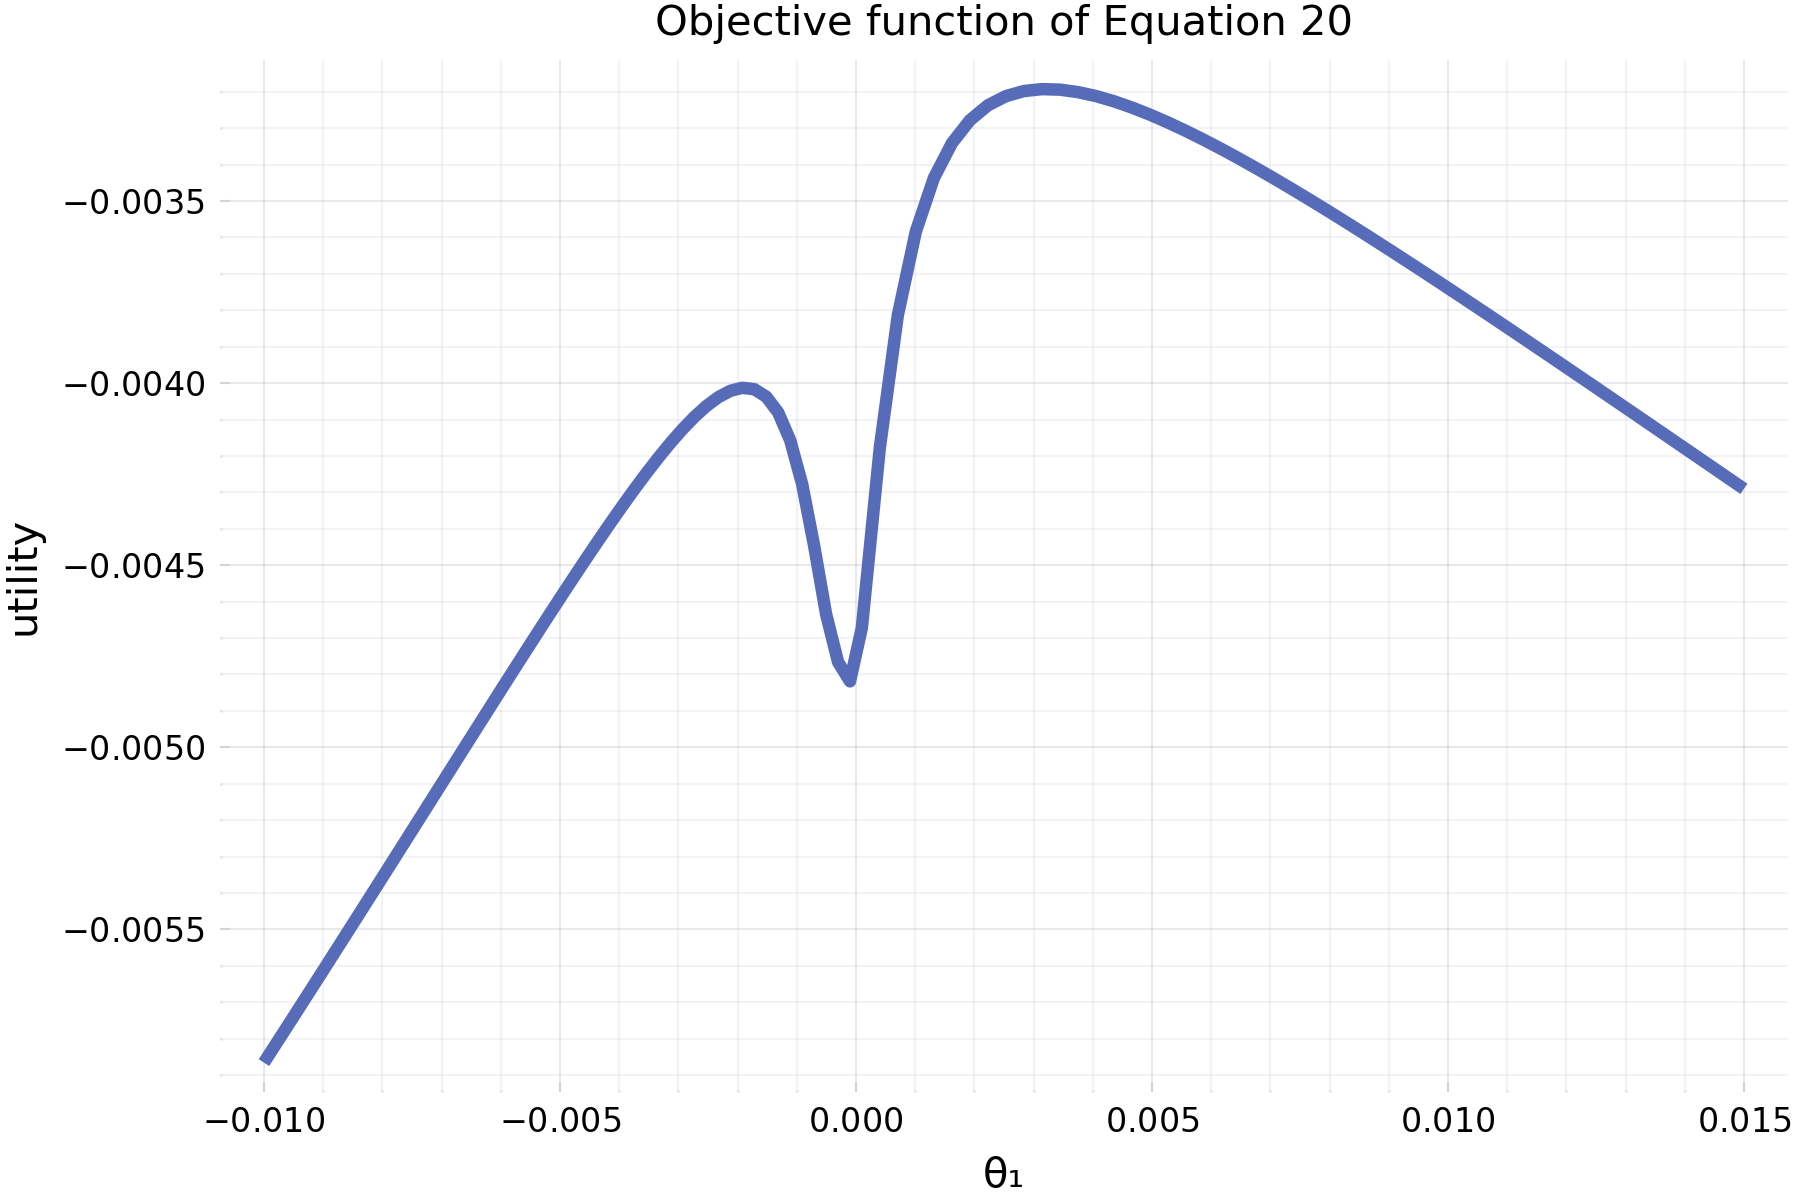
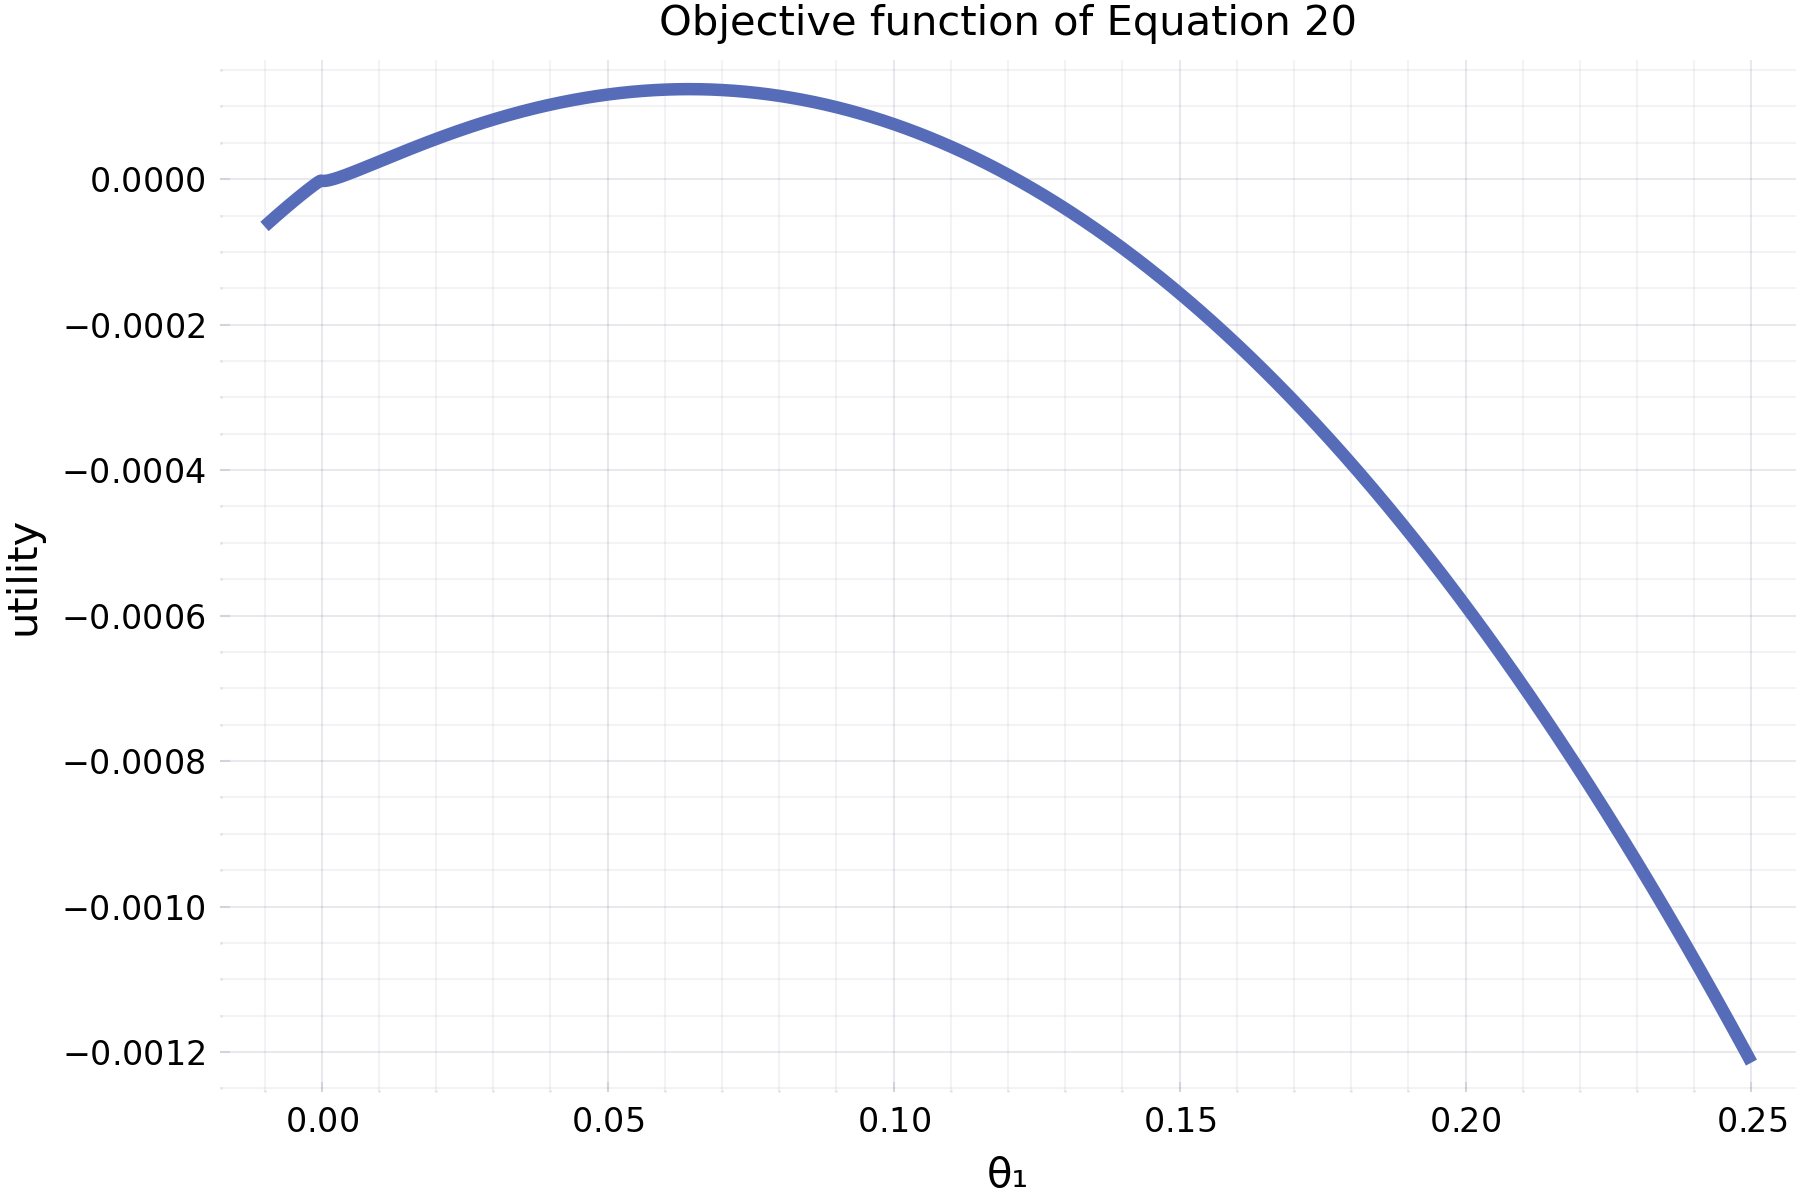
adjusting ranges, changed theta, changed nu to 8

diff --git a/py_code/finding_S_z.py b/py_code/finding_S_z.py
@@ -27,7 +27,7 @@ average_metrics = pd.read_csv(data_folder + "/preprocessed/average_metrics.csv")
 # ===================================================================    
 #                     a. Set up known parameters        
 # ===================================================================
-nu = 17
+nu = 8
 Rf = 1
 gamma_hat, b0 = (0.6, 0.6)
 alpha, delta, lamb = (0.7, 0.65, 1.5)
@@ -44,14 +44,14 @@ print("\nAverage proportions across all months:")
 print(avg_portfolio_props)
 
 #Rounds the average proportions to even numbers
-N = 100
-pr_DI = 3
-pr_HY = 19
-pr_IG = 78
-# N = 1000
-# pr_DI = 30
-# pr_HY = 190
-# pr_IG = 780
+# N = 100
+# pr_DI = 3
+# pr_HY = 19
+# pr_IG = 78
+N = 1000
+pr_DI = 30
+pr_HY = 190
+pr_IG = 780
 # N = 5000
 # pr_DI = 150
 # pr_HY = 950
